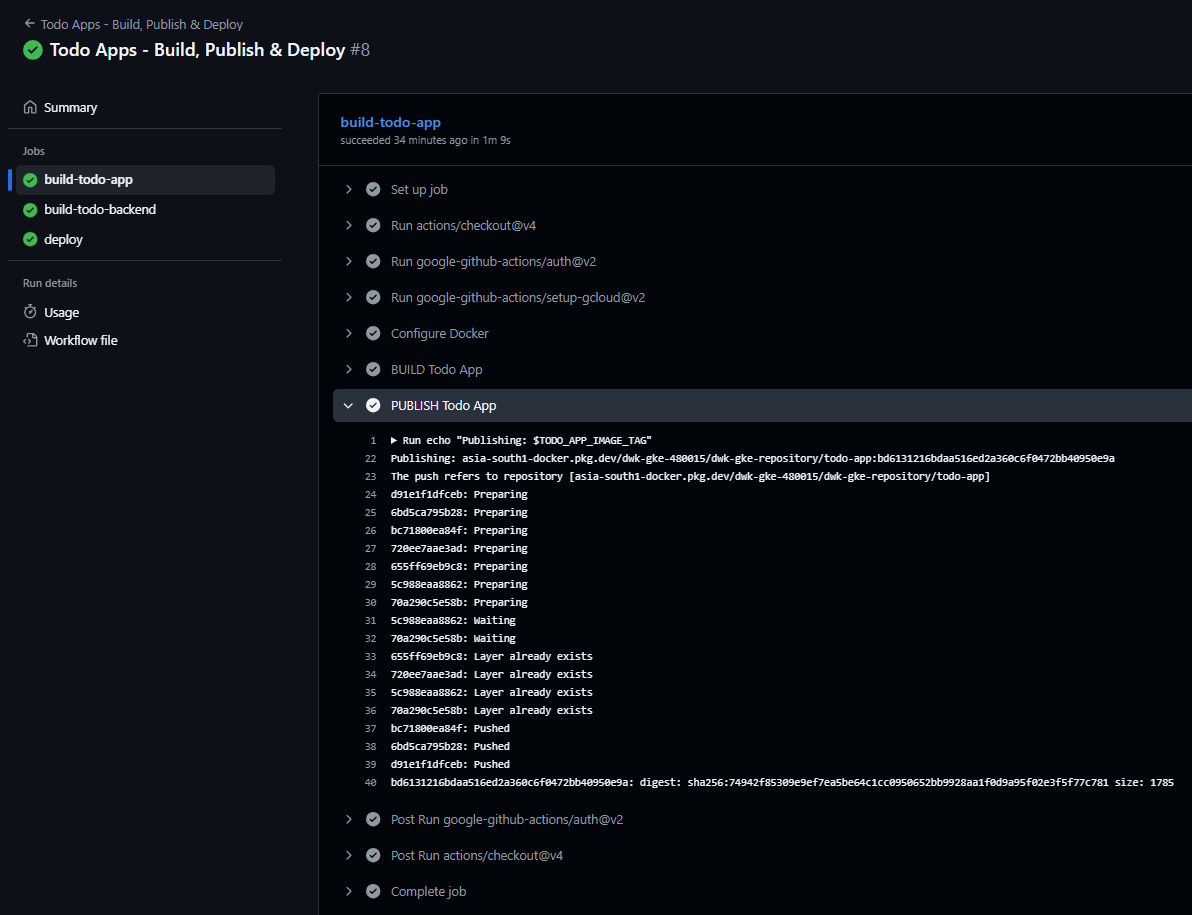
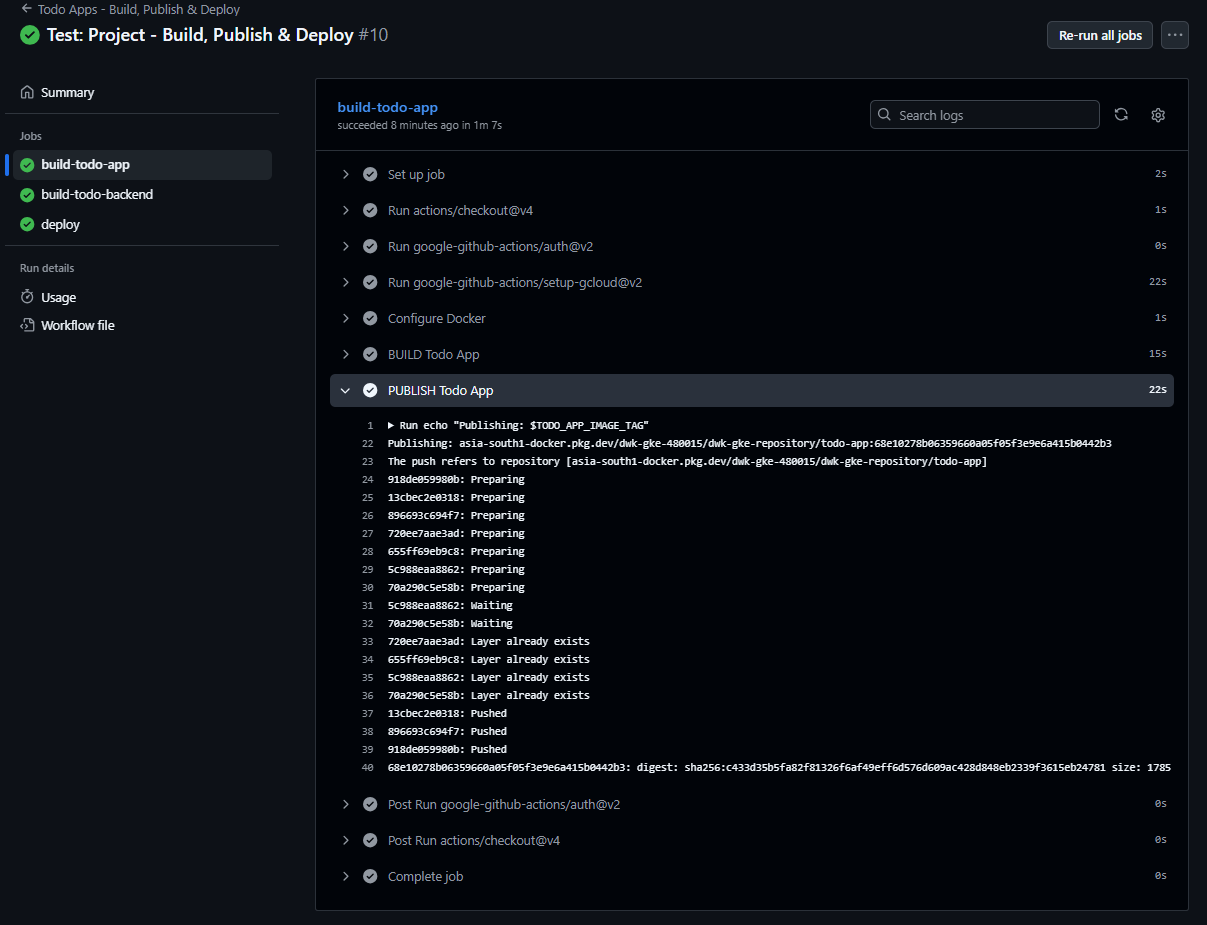
Code for Exercise 3.6. The project, step 15

diff --git a/the_project/README.md b/the_project/README.md
@@ -1,48 +1,26 @@
-## Exercise 3.5: The project, step 14
+## Exercise 3.6. The project, step 15
 
-**Objective**: Configure the project to use Kustomize, and deploy it to Google Kubernetes Engine.
+**Objective**: Setup automatic deployment for the project - Integrate GitHub Actions Workflow, Google Artifact Registory and Google Kubernetes Engine.
 
 **Key Changes from Base**  
-The deployment uses a layered Kustomize structure for the project, managing multi-resource Kubernetes applications with environment overlays.
-
-- **[`apps/the-project/kustomization.yaml`](../apps/the-project/kustomization.yaml):** This file consolidates all core application manifests for the `project` namespace, consisting of:
-
-  - PostgreSQL StatefulSet and supporting ConfigMaps/Secrets:  
-    - [`postgres-db-secret.yaml`](../apps/the-project/postgres-db-secret.yaml)
-    - [`postgresql-configmap.yaml`](../apps/the-project/postgresql-configmap.yaml)
-    - [`postgresql-service.yaml`](../apps/the-project/postgresql-service.yaml)
-    - [`postgresql-statefulset.yaml`](../apps/the-project/postgresql-statefulset.yaml)
-  - Todo Application Deployment and Service:  
-    - [`todo-app-deployment.yaml`](../apps/the-project/todo-app-deployment.yaml)
-    - [`todo-app-service.yaml`](../apps/the-project/todo-app-service.yaml)
-  - Todo Backend Application Deployment and Service:  
-    - [`todo-backend-deployment.yaml`](../apps/the-project/todo-backend-deployment.yaml)
-    - [`todo-backend-service.yaml`](../apps/the-project/todo-backend-service.yaml)
-  - Application ConfigMap:  
-    - [`project-configmap.yaml`](../apps/the-project/project-configmap.yaml)
-  - Wiki Todo Generator - CronJob:  
-    - [`cron_wiki_todo.yaml`](../apps/the-project/cron_wiki_todo.yaml)
-
-- **[`environments/project-gke/kustomization.yaml`](../environments/project-gke/kustomization.yaml):**  This higher-level overlay manages GKE-specific configurations and environment declarations. It references:
-  - [`namespace.yaml`](../environments/project-gke/namespace.yaml) — creates the `project` namespace.
-  - [`persistentvolumeclaim.yaml`](../environments/project-gke/persistentvolumeclaim.yaml) — GKE dynamic PVC request using the default `standard-rwo` StorageClass.
-  - [`gateway.yaml`](../environments/project-gke/gateway.yaml) — Gateway API resource defining GKE L7 external HTTP traffic routing.
-  - HTTPRoute manifests:
-    - [`todo-app-route.yaml`](../environments/project-gke/todo-app-route.yaml)
-    - [`todo-backend-route.yaml`](../environments/project-gke/todo-backend-route.yaml)
-
-- This enables a single command deploy `kubectl apply -k environments/project-gke` that provisions the full application stack.
-
+  - [`dwk-gke-repository`](https://console.cloud.google.com/artifacts/docker/dwk-gke-480015/asia-south1/dwk-gke-repository?hl=en&project=dwk-gke-480015) - Google Artifact Registry for Docker images  
+  - Google Service Account `github-actions` with IAM roles  
+  - [.github/workflows/project-gke.yaml](../.github/workflows/project-gke.yaml) - GitHub Action workflow to Build, Push SHA images, Kustomize transform and GKE deploy
+  - [environments/project-gke/kustomization.yaml](../environments/project-gke/kustomization.yaml) - Updated for Registry prefix overlay
 ***
 
-**Base Application Versions**
-- [Toto App and Todo Backend App v2.10](https://github.com/arkb2023/devops-kubernetes/tree/2.10/the_project/)
+**Base Application Version**
+- [The project v3.5](https://github.com/arkb2023/devops-kubernetes/tree/3.5/the_project/)
 
 ### 1. **Directory and File Structure**
 <pre>
+  # Github actions workflow
+  .github/
+  └── workflows
+      └── project-gke.yaml
 
   # kustomization: Common Project resource yamls 
-  apps/the-project/
+    apps/the-project/
   ├── cron_wiki_todo.yaml
   ├── kustomization.yaml
   ├── postgres-db-secret.yaml
@@ -97,7 +75,6 @@ The deployment uses a layered Kustomize structure for the project, managing mult
   the_project/cronjob/
   ├── Dockerfile
   └── cron_wiki_todo.py
-
 </pre>
 
 
@@ -121,109 +98,198 @@ The deployment uses a layered Kustomize structure for the project, managing mult
   ```bash
   gcloud container clusters get-credentials dwk-cluster --zone=asia-south1-a
   ```
-- Namespace creation:
-  ```bash
-  kubectl create namespace project
-  ```
 
+### 3. Google Service Account
+  - Created service Account `github-actions`  
+    ![Service Account Creation](./images/gcr/12-service-account.png)  
 
-### 3. Docker Image Build & Push
-```
-cd the-project/todo-app
-docker build -t arkb2023/todo-backend:3.5.1 .
-docker push arkb2023/todo-backend:3.5.1
+  - Assign IAM roles  
+    ![IAM Roles Assigned](./images/gcr/13-service-account-roles.png)  
+    > Shows assisgned IAM roles  
+    >   - Kubernetes Engine Service Agent  
+    >   - Storage Admin  
+    >   - Artifact Registry Administrator  
+    >   - Artifact Registry Create-on-Push Repository Administrator  
+    >   - Artifact Registry Reader  
 
-cd the-project/todo-app
-docker build -t arkb2023/todo-app:3.5.1 .
-docker push arkb2023/todo-app:3.5.1
-```
-> Docker images are published at:  
-https://hub.docker.com/repository/docker/arkb2023/todo-backend/tags/3.5.1  
-https://hub.docker.com/repository/docker/arkb2023/todo-app/tags/3.5.1  
+### 4. Google Artifact Registry
+  - Created repository `dwk-gke-repository` (asia-south1)  
+    ![Artifact Registry Repository](./images/gcr/10-gcr.png)  
 
+### 5. GitHub Actions Repository secrets
+  - GitHub Actions authentication for GKE + Artifact Registry via Repository Secrets:  
+    ![caption](./images/github/06-github-secrets-variables.png)
 
+### 6. Setup GitHub Actions pipeline
+  Automatic CI/CD triggered with relevant changes:
+  - Trigger on push to main branch
+  - Relavant environment variables
+      ```yaml
+      env:
+        GKE_CLUSTER: dwk-cluster
+        GKE_ZONE: asia-south1-a 
+        PROJECT_ID: dwk-gke-480015
+        REGISTRY: asia-south1-docker.pkg.dev
+        REPOSITORY: dwk-gke-repository
+      ```
+  - Three jobs:
+    - `build-todo-app`: Docker build, Push `todo-app:${GITHUB_SHA}` to Google Artifact Registry
+    - `build-todo-backend`: Docker build, Push `todo-backend:${GITHUB_SHA}` to Google Artifact Registry
+    - `deploy`: Depends on `build-todo-app` and `build-todo-backend`, kustomize SHA transform, GKE deploy
+  - Workflow file: [`.github/workflows/project-gke.yaml`](../.github/workflows/project-gke.yaml)
 
-### 4. **Deploy to Kubernetes**
+### 7. End-to-end Validation
+  - Trigger Pipeline
+    ```bash
+    git add .
+    git commit -m "Test: Project - Build, Publish & Deploy"
+    git push origin main
+    ```
+  - Workflow Success: [Run #19986721622](https://github.com/arkb2023/devops-kubernetes/actions/runs/19986721622) and monitor progress
+    ![Workflow Success](./images/github/01-workflow-success-highlevel.png)  
+    
+  - Build Jobs - `build-todo-app` and `build-todo-backed`:  
+    ![Todo App Build](./images/github/02-todo-app-build-job-success.png)  
+    ![Todo Backend Build](./images/github/03-todo-backend-build-job-success.png)  
 
-- **Deploy with kustomize**:  
-  ```bash
-  kubectl apply -k environments/project-gke/
-  ```
-  ```text
-  namespace/project configured
-  configmap/postgres-db-config created
-  configmap/project-config-env created
-  secret/postgres-db-secret created
-  service/postgresql-db-svc created
-  service/todo-app-svc created
-  service/todo-backend-svc created
-  persistentvolumeclaim/local-pv-claim created
-  deployment.apps/todo-app-dep created
-  deployment.apps/todo-backend-dep created
-  statefulset.apps/postgresql-db created
-  cronjob.batch/wiki-todo-generator created
-  gateway.gateway.networking.k8s.io/project-gateway created
-  httproute.gateway.networking.k8s.io/todo-app-route created
-  httproute.gateway.networking.k8s.io/todo-backend-route created
-  ```
+  - SHA Deploy:  
+    ![Deploy SHA Images](./images/github/04-deploy-job-success.png)  
+    ![caption](./images/github/05-deploy-job-details.png)  
+    ![caption](./images/github/07-deploy-job-details2.png)  
+    ![caption](./images/github/08-deploy-job-details3.png)  
+  
+  - Artifact Registry SHA Images  
+    - SHA-tagged images created on GitHub Actions push:  
+      ![SHA Images](./images/gcr/11-repo-details-showing-todo-app-and-backend-image-folders.png)
 
-- **Verify overall health of the configured entities**
-  ```bash
-  kubectl get all -n project
-  ```
-  ```text
-  NAME                                    READY   STATUS    RESTARTS   AGE
-  pod/postgresql-db-0                     1/1     Running   0          25m
-  pod/todo-app-dep-64d5554c8d-8994k       1/1     Running   0          3m1s
-  pod/todo-backend-dep-5f77c88d4c-rnccp   1/1     Running   0          2m53s
+    - Todo App Image  
+      ![Todo App SHA](./images/gcr/02-todo-app-gcr-image.png)  
 
-  NAME                        TYPE        CLUSTER-IP      EXTERNAL-IP   PORT(S)    AGE
-  service/postgresql-db-svc   ClusterIP   None            <none>        5432/TCP   25m
-  service/todo-app-svc        ClusterIP   34.118.234.89   <none>        1234/TCP   25m
-  service/todo-backend-svc    ClusterIP   34.118.237.91   <none>        4567/TCP   25m
+    - Todo Backend App Image  
+      ![Todo Backend SHA](./images/gcr/01-todo-backend-image.png)  
+  
+  - Validate deployment through gcloud cli  
+    - Verify PVC status  
+      ```bash
+      kubectl -n project get pvc
+      ```
+      *Output*
+      ```text
+      NAME                                 STATUS   VOLUME                                     CAPACITY   ACCESS MODES   STORAGECLASS   VOLUMEATTRIBUTESCLASS   AGE
+      local-pv-claim                       Bound    pvc-a540ce25-ce14-494e-8806-815237dc72df   1Gi        RWO            standard-rwo   <unset>                 24m
+      postgresql-db-disk-postgresql-db-0   Bound    pvc-465d9ed0-273c-453b-9943-0a7c1c3d10e6   1Gi        RWO            standard-rwo   <unset>                 24m
+      ```
+    - Verify Image in `todo-app` and `todo-backend` deployments
+      - Check Todo App Deployment
+        ```bash
+        kubectl -n project describe deployment  todo-app-dep |grep -A4 "Pod Template:"
+        ```
+        *Output*
+        ```text
+        Pod Template:
+          Labels:  app=todo-app
+          Containers:
+          todo-app-container:
+            Image:      asia-south1-docker.pkg.dev/dwk-gke-480015/dwk-gke-repository/todo-app:bd6131216bdaa516ed2a360c6f0472bb40950e9a
+        ```
+      - Check Todo Backend App Deployment
+        ```bash
+        kubectl -n project describe deployment  todo-backend-dep |grep -A4 "Pod Template:"
+        ```
+        *Output*
+        ```text
+        Pod Template:
+          Labels:  app=todo-backend
+          Containers:
+          todo-backend-container:
+            Image:      asia-south1-docker.pkg.dev/dwk-gke-480015/dwk-gke-repository/todo-backend:bd6131216bdaa516ed2a360c6f0472bb40950e9a
+        ```
+    - GKE Cluster Health  
+        ```bash
+        kubectl -n project get all 
+        ```
+        *Output*
+        ```text
+        NAME                                     READY   STATUS      RESTARTS   AGE
+        pod/postgresql-db-0                      1/1     Running     0          22m
+        pod/todo-app-dep-f4c48bd87-2kmjz         1/1     Running     0          22m
+        pod/todo-backend-dep-698997bf5b-kzlbh    1/1     Running     0          22m
+        pod/wiki-todo-generator-29416920-n9kmf   0/1     Completed   0          7m36s
 
-  NAME                               READY   UP-TO-DATE   AVAILABLE   AGE
-  deployment.apps/todo-app-dep       1/1     1            1           25m
-  deployment.apps/todo-backend-dep   1/1     1            1           25m
+        NAME                        TYPE        CLUSTER-IP      EXTERNAL-IP   PORT(S)    AGE
+        service/postgresql-db-svc   ClusterIP   None            <none>        5432/TCP   22m
+        service/todo-app-svc        ClusterIP   34.118.230.54   <none>        1234/TCP   22m
+        service/todo-backend-svc    ClusterIP   34.118.233.69   <none>        4567/TCP   22m
 
-  NAME                                          DESIRED   CURRENT   READY   AGE
-  replicaset.apps/todo-app-dep-64d5554c8d       1         1         1       12m
-  replicaset.apps/todo-app-dep-777499b97f       0         0         0       25m
-  replicaset.apps/todo-backend-dep-5f77c88d4c   1         1         1       12m
-  replicaset.apps/todo-backend-dep-955f76f94    0         0         0       25m
+        NAME                               READY   UP-TO-DATE   AVAILABLE   AGE
+        deployment.apps/todo-app-dep       1/1     1            1           22m
+        deployment.apps/todo-backend-dep   1/1     1            1           22m
 
-  NAME                             READY   AGE
-  statefulset.apps/postgresql-db   1/1     25m
+        NAME                                          DESIRED   CURRENT   READY   AGE
+        replicaset.apps/todo-app-dep-f4c48bd87        1         1         1       22m
+        replicaset.apps/todo-backend-dep-698997bf5b   1         1         1       22m
 
-  NAME                                SCHEDULE    TIMEZONE   SUSPEND   ACTIVE   LAST SCHEDULE   AGE
-  cronjob.batch/wiki-todo-generator   0 * * * *   <none>     False     0        <none>          25m
-  ```
+        NAME                             READY   AGE
+        statefulset.apps/postgresql-db   1/1     22m
 
-- **Wait for GKE Gateway controller to fully set up the external load balancer**
-  ```bash
-  kubectl get gateway project-gateway -n project
-  ```
-  **Output**
-  ```text
-  NAME              CLASS                            ADDRESS          PROGRAMMED   AGE
-  project-gateway   gke-l7-global-external-managed   35.244.202.196   True         25m
-  ```
-  > Wait for `ADDRESS` to populate and `PROGRAMMED` to switch to True
+        NAME                                SCHEDULE    TIMEZONE   SUSPEND   ACTIVE   LAST SCHEDULE   AGE
+        cronjob.batch/wiki-todo-generator   0 * * * *   <none>     False     0        7m37s           22m
 
-### 4. Validate
-  Use the Gateway Address `http://35.244.202.196` to access the application: 
-- Test Todo App response on `/` HTTP endpoint:  
-
-  - Application returns the expected response  
-    ![caption](./images/01-initial-page.png)  
-
-- Test Todo Creation:  
-
-  - Application shows the created todo item in response    
-    ![caption](./images/02-post-todo-task-success.png)
+        NAME                                     STATUS     COMPLETIONS   DURATION   AGE
+        job.batch/wiki-todo-generator-29416920   Complete   1/1           13s        7m37s
+        ```
+    - Verify HTTProutes configured for `todo-app` and `todo-backend`
+      - Check Todo App Route    
+          ```bash
+          kubectl -n project describe httproute todo-app-route |grep -A3 -e "Name:.*todo-app-route" -e "Matches:"
+          ```
+          *Output*
+          ```text
+          Name:         todo-app-route
+          Namespace:    project
+          Labels:       <none>
+          Annotations:  <none>
+          --
+              Matches:
+                Path:
+                  Type:   PathPrefix
+                  Value:  /
+          ```
+      - Check Todo Backend App Route    
+          ```bash
+          kubectl -n project describe httproute todo-backend-route |grep -A3 -e "Name:.*todo-backend-route" -e "Matches:"
+          ```
+          *Output*
+          ```text
+          Name:         todo-backend-route
+          Namespace:    project
+          Labels:       <none>
+          Annotations:  <none>
+          --
+              Matches:
+                Path:
+                  Type:   PathPrefix
+                  Value:  /todos
+          ```
+      - Verify Gateway API controller status  
+        ```bash
+        kubectl -n project get gateway
+        ```
+        *Output*
+        ```text
+        NAME              CLASS                            ADDRESS          PROGRAMMED   AGE
+        project-gateway   gke-l7-global-external-managed   34.144.232.237   True         2m11s
+        ```
+  - Validate Live Application  
+    Use the Gateway Address `http://34.144.232.237` to access the application:  
+    - Test Todo App response on `/` HTTP endpoint:  
+      - Application returns the expected response  
+      ![caption](./images/01-initial-page.png)  
+    
+    - Test Todo Creation:  
+      - Application shows the created todo item in response    
+        ![caption](./images/02-post-todo-task-success.png)
       
-
-
 ## 8. Cleanup
 
 **Delete all project resources (Kustomize)**
@@ -236,3 +302,5 @@ gcloud container clusters delete dwk-cluster \
   --zone=asia-south1-a \
   --quiet
 ```
+
+---
